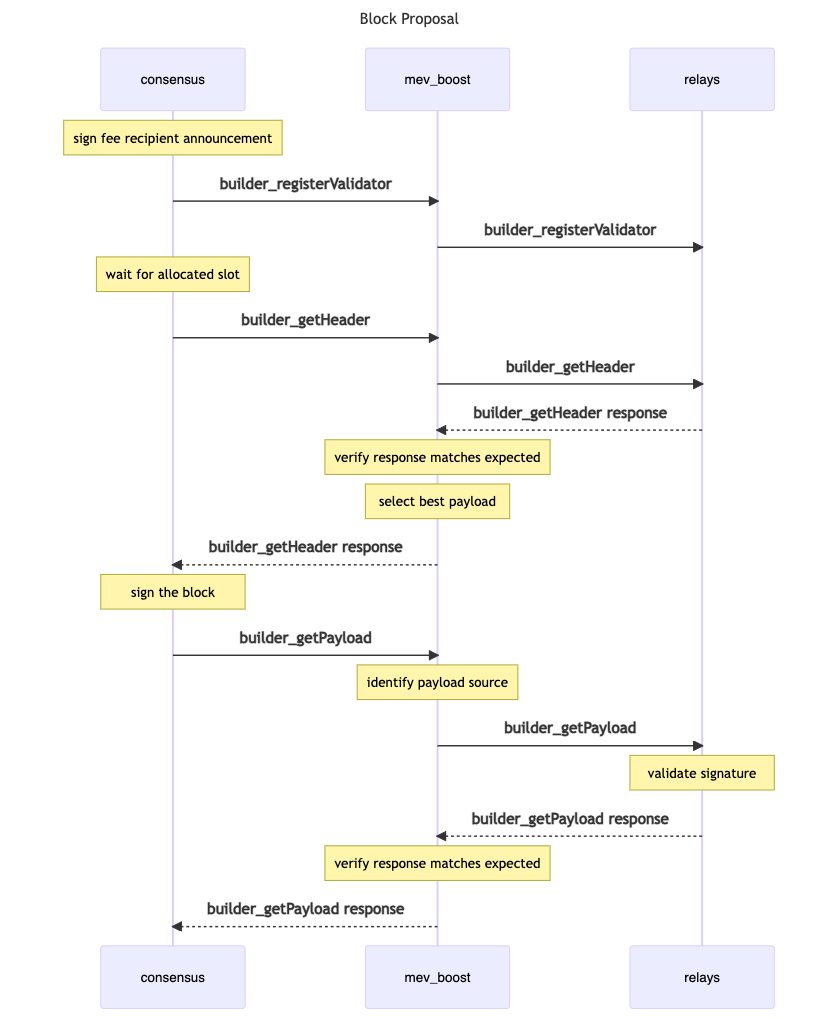
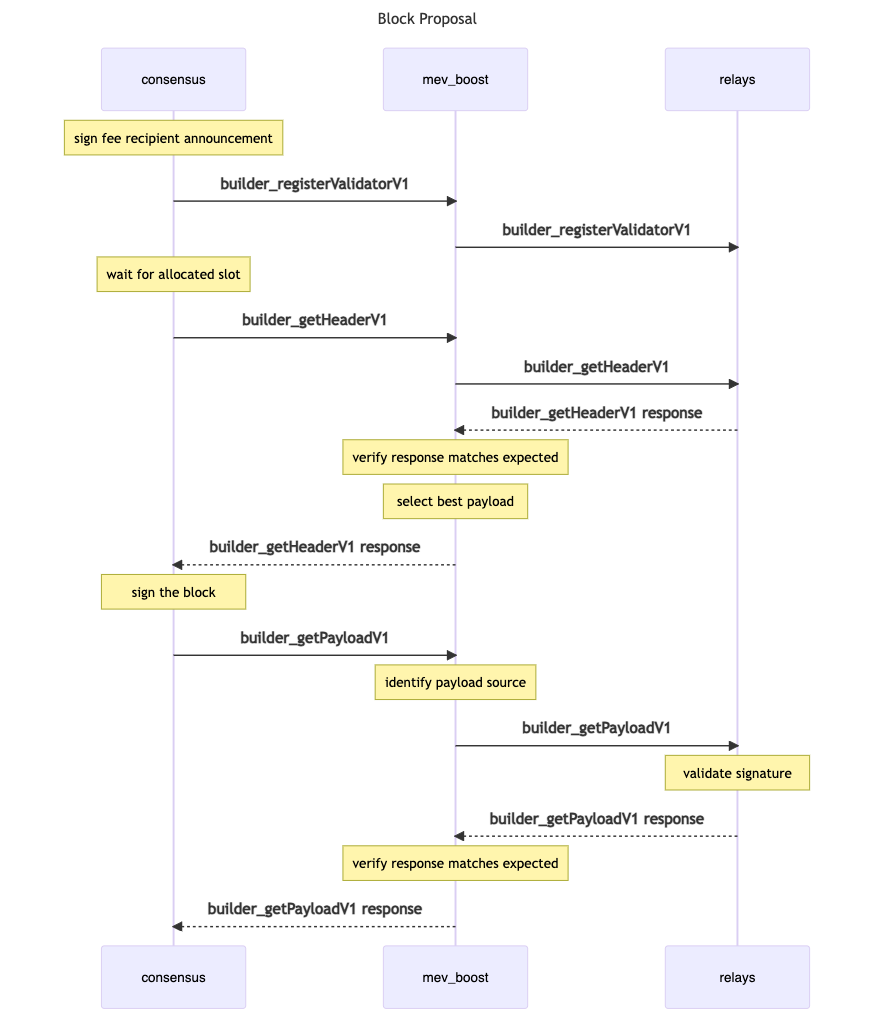
added docker hub link to readme

diff --git a/README.md b/README.md
@@ -6,11 +6,20 @@
 
 A service that allows Ethereum Consensus Layer (CL) clients to outsource block construction to third party block builders in addition to execution clients.
 
-**→ See also the [Builder API Spec](https://github.com/ethereum/execution-apis/pull/209/files)**
+See also:
+
+* **[Builder API specification](https://github.com/ethereum/execution-apis/pull/209/files)**
+* [Docker image](https://hub.docker.com/r/flashbots/mev-boost/tags)
+
+---
+
+### System diagram
 
 ![mev-boost service integration overview](https://raw.githubusercontent.com/flashbots/mev-boost/main/docs/mev-boost-integration-overview.png)
 
-v0.2 request flow:
+([source](https://excalidraw.com/#json=VHl16agggXE1wIcnRD2RP,1irpGwhVpEgt6k05u-MbaQ))
+
+### Request sequence
 
 ```mermaid
 sequenceDiagram
@@ -19,23 +28,23 @@ sequenceDiagram
     participant relays
     Title: Block Proposal
     Note over consensus: sign fee recipient announcement
-    consensus->>mev_boost: builder_registerValidator
-    mev_boost->>relays: builder_registerValidator
+    consensus->>mev_boost: builder_registerValidatorV1
+    mev_boost->>relays: builder_registerValidatorV1
     Note over consensus: wait for allocated slot
-    consensus->>mev_boost: builder_getHeader
-    mev_boost->>relays: builder_getHeader
-    relays-->>mev_boost: builder_getHeader response
+    consensus->>mev_boost: builder_getHeaderV1
+    mev_boost->>relays: builder_getHeaderV1
+    relays-->>mev_boost: builder_getHeaderV1 response
     Note over mev_boost: verify response matches expected
     Note over mev_boost: select best payload
-    mev_boost-->>consensus: builder_getHeader response
+    mev_boost-->>consensus: builder_getHeaderV1 response
     Note over consensus: sign the block
-    consensus->>mev_boost: builder_getPayload
+    consensus->>mev_boost: builder_getPayloadV1
     Note over mev_boost: identify payload source
-    mev_boost->>relays: builder_getPayload
+    mev_boost->>relays: builder_getPayloadV1
     Note over relays: validate signature
-    relays-->>mev_boost: builder_getPayload response
+    relays-->>mev_boost: builder_getPayloadV1 response
     Note over mev_boost: verify response matches expected
-    mev_boost-->>consensus: builder_getPayload response
+    mev_boost-->>consensus: builder_getPayloadV1 response
 ```
 
 ## Implementation Plan

diff --git a/docs/specification.md b/docs/specification.md
@@ -1,1 +1,1 @@
-# Builer API specification moved to [https://github.com/ethereum/execution-apis/pull/209/files](https://github.com/ethereum/execution-apis/pull/209/files)
+Builer API specification moved to [https://github.com/ethereum/execution-apis/pull/209/files](https://github.com/ethereum/execution-apis/pull/209/files)
